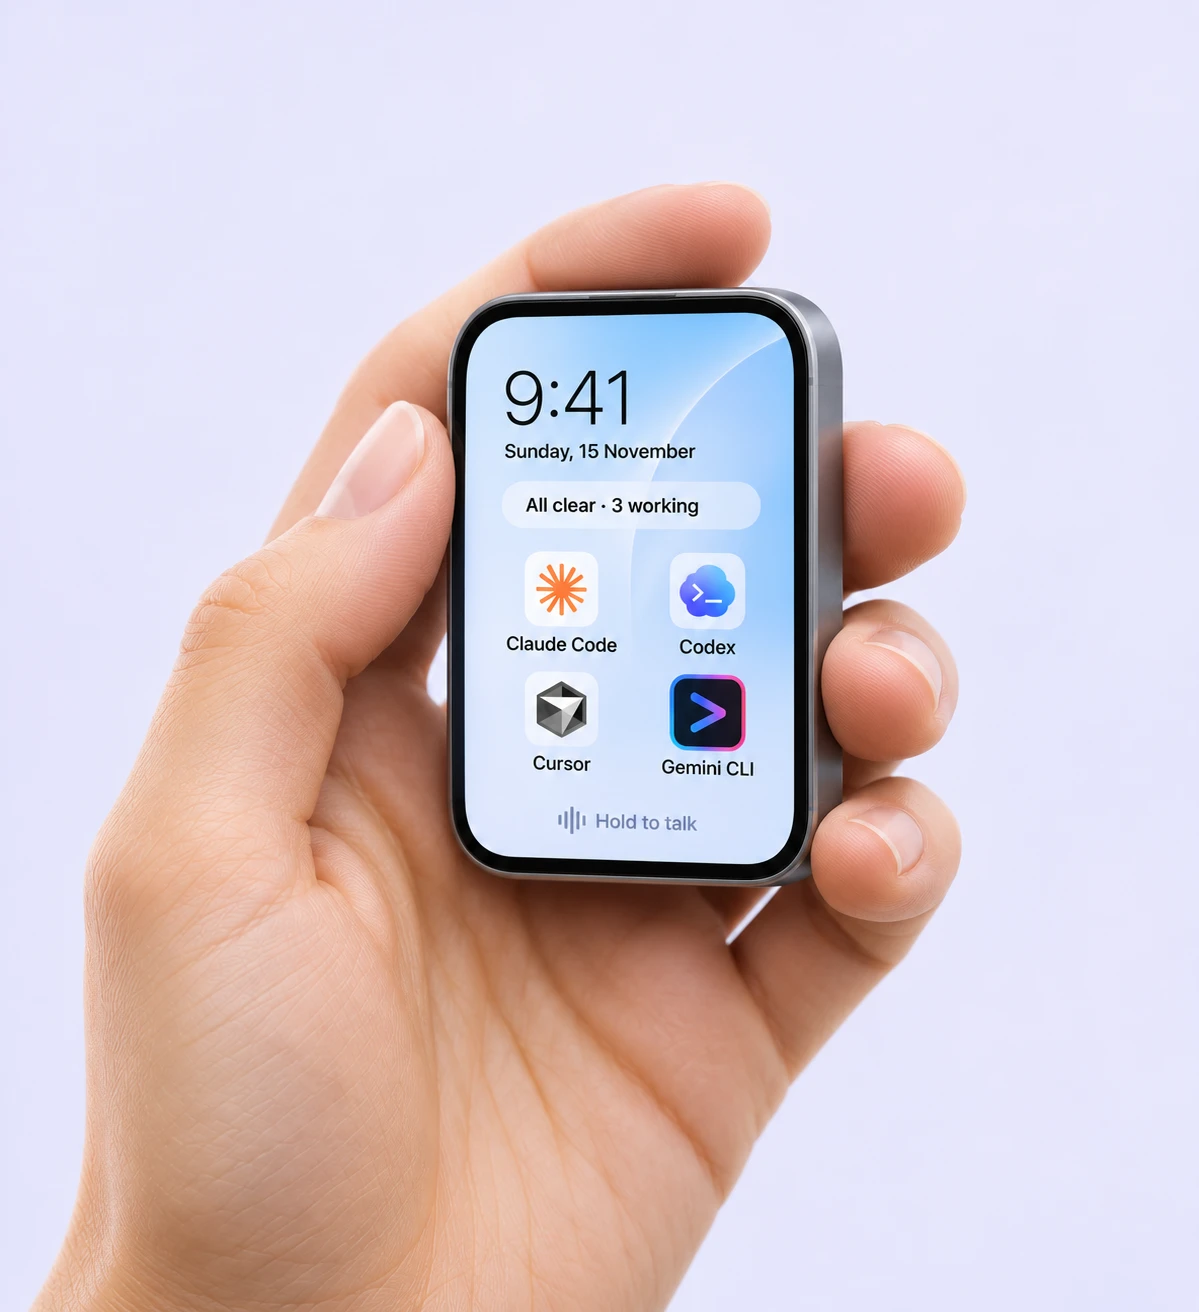
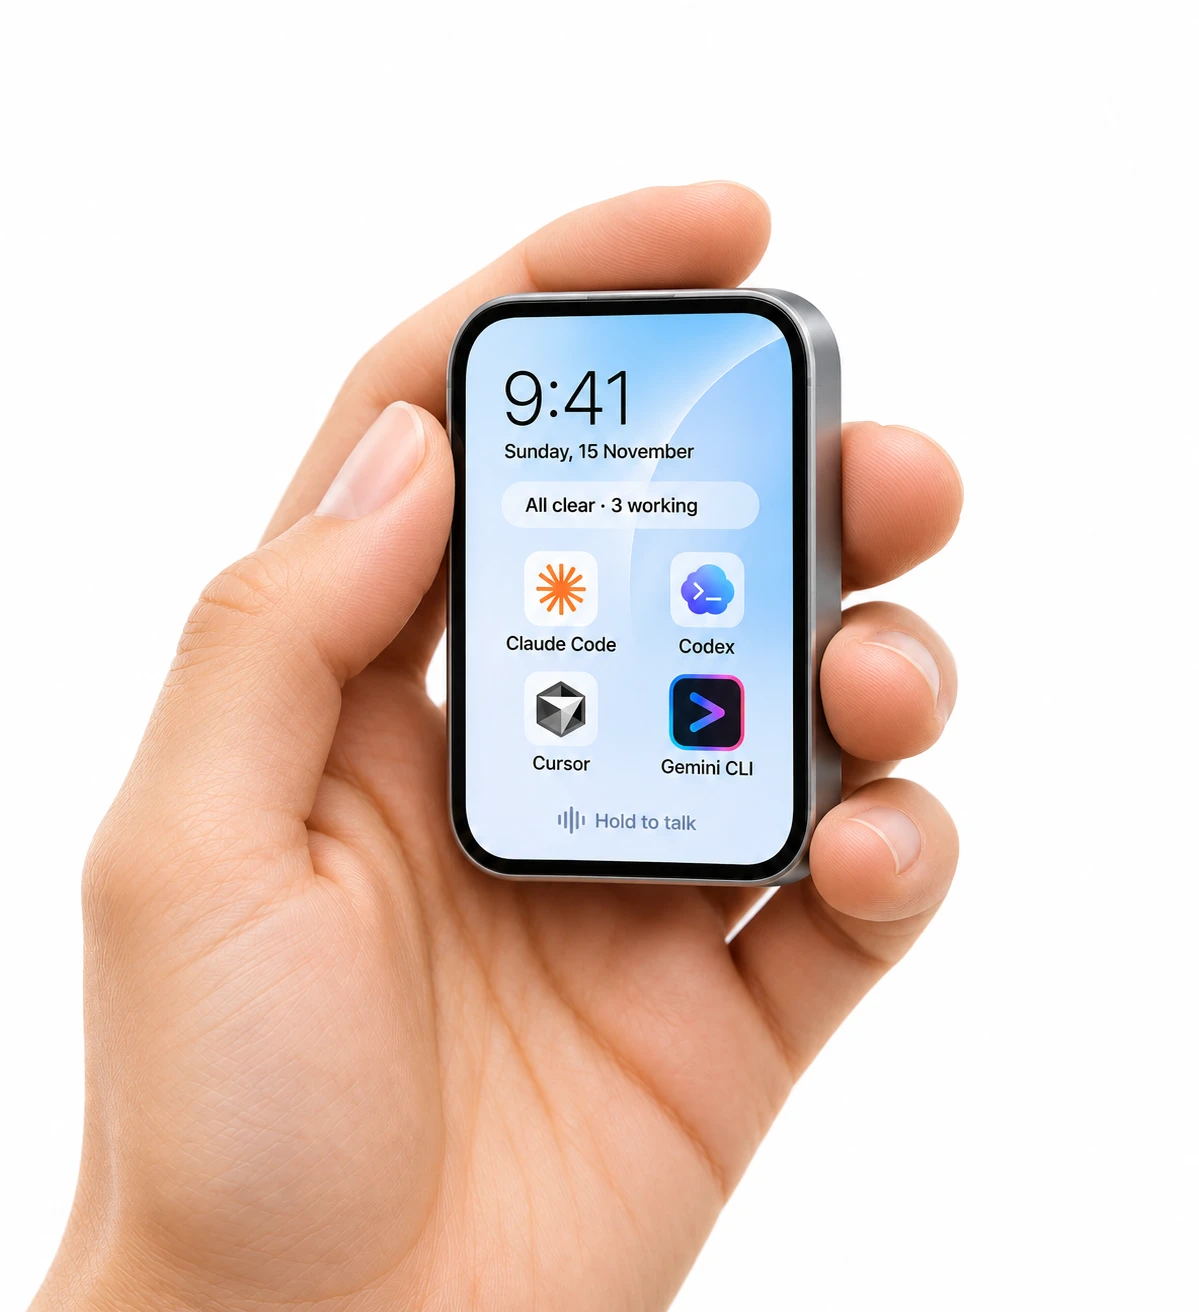
Pocket it and Snap it on as two white sections
- New white-background hand and wrist photos (Cursor spelled correctly)
- Hand photo melts away at the bottom with an eased fade
- Wrist photo runs edge to edge with short eased top and bottom fades

diff --git a/app/globals.css b/app/globals.css
@@ -94,9 +94,10 @@ a { color: inherit; text-decoration: none; }
 .look-caps > div.on { opacity: 1; transform: none; }
 .look-caps h3 { margin: 0; font-size: clamp(28px, 3.4vw, 48px); line-height: 1.08; font-weight: 500; letter-spacing: -0.035em; text-wrap: balance; }
 
-.pair { max-width: 1400px; margin: clamp(48px, 6vw, 80px) auto 0; display: grid; grid-template-columns: 2fr 3fr; gap: 20px; }
-.pair img { width: 100%; height: clamp(420px, 46vw, 680px); object-fit: cover; border-radius: clamp(20px, 2.6vw, 36px); }
-.pair img:first-child { object-position: 50% 30%; }
+.bleed { overflow: hidden; }
+.shot { width: 100%; height: auto; margin: clamp(24px, 3vw, 48px) auto 0; filter: brightness(1.01); }
+.shot-hand { max-width: 640px; -webkit-mask-image: linear-gradient(to bottom, rgba(0,0,0,1) 56%, rgba(0,0,0,0.991) 60.4%, rgba(0,0,0,0.942) 64.8%, rgba(0,0,0,0.837) 69.2%, rgba(0,0,0,0.683) 73.6%, rgba(0,0,0,0.5) 78%, rgba(0,0,0,0.317) 82.4%, rgba(0,0,0,0.163) 86.8%, rgba(0,0,0,0.058) 91.2%, rgba(0,0,0,0.009) 95.6%, rgba(0,0,0,0) 100%); mask-image: linear-gradient(to bottom, rgba(0,0,0,1) 56%, rgba(0,0,0,0.991) 60.4%, rgba(0,0,0,0.942) 64.8%, rgba(0,0,0,0.837) 69.2%, rgba(0,0,0,0.683) 73.6%, rgba(0,0,0,0.5) 78%, rgba(0,0,0,0.317) 82.4%, rgba(0,0,0,0.163) 86.8%, rgba(0,0,0,0.058) 91.2%, rgba(0,0,0,0.009) 95.6%, rgba(0,0,0,0) 100%); }
+.shot-wrist { width: 100vw; max-width: none; margin-left: calc(50% - 50vw); -webkit-mask-image: linear-gradient(to bottom, rgba(0,0,0,0) 0%, rgba(0,0,0,0.009) 1.4%, rgba(0,0,0,0.058) 2.8%, rgba(0,0,0,0.163) 4.2%, rgba(0,0,0,0.317) 5.6%, rgba(0,0,0,0.5) 7%, rgba(0,0,0,0.683) 8.4%, rgba(0,0,0,0.837) 9.8%, rgba(0,0,0,0.942) 11.2%, rgba(0,0,0,0.991) 12.6%, rgba(0,0,0,1) 14%, rgba(0,0,0,1) 90%, rgba(0,0,0,0.991) 91%, rgba(0,0,0,0.942) 92%, rgba(0,0,0,0.837) 93%, rgba(0,0,0,0.683) 94%, rgba(0,0,0,0.5) 95%, rgba(0,0,0,0.317) 96%, rgba(0,0,0,0.163) 97%, rgba(0,0,0,0.058) 98%, rgba(0,0,0,0.009) 99%, rgba(0,0,0,0) 100%); mask-image: linear-gradient(to bottom, rgba(0,0,0,0) 0%, rgba(0,0,0,0.009) 1.4%, rgba(0,0,0,0.058) 2.8%, rgba(0,0,0,0.163) 4.2%, rgba(0,0,0,0.317) 5.6%, rgba(0,0,0,0.5) 7%, rgba(0,0,0,0.683) 8.4%, rgba(0,0,0,0.837) 9.8%, rgba(0,0,0,0.942) 11.2%, rgba(0,0,0,0.991) 12.6%, rgba(0,0,0,1) 14%, rgba(0,0,0,1) 90%, rgba(0,0,0,0.991) 91%, rgba(0,0,0,0.942) 92%, rgba(0,0,0,0.837) 93%, rgba(0,0,0,0.683) 94%, rgba(0,0,0,0.5) 95%, rgba(0,0,0,0.317) 96%, rgba(0,0,0,0.163) 97%, rgba(0,0,0,0.058) 98%, rgba(0,0,0,0.009) 99%, rgba(0,0,0,0) 100%); }
 
 .faq { margin-top: clamp(40px, 5vw, 64px); border-bottom: 1px solid var(--line); }
 .faq details { border-top: 1px solid var(--line); }
@@ -214,8 +215,6 @@ a { color: inherit; text-decoration: none; }
   .look { height: 540vh; }
 }
 @media (max-width: 760px) {
-  .pair { grid-template-columns: 1fr; }
-  .pair img { height: auto; }
   .btn-nav { font-size: 14px; padding: 10px 18px; }
 }
 @media (prefers-reduced-motion: reduce) {

diff --git a/app/page.js b/app/page.js
@@ -26,14 +26,14 @@ export default function Home() {
           <Showcase />
         </section>
 
-        <section id="wear" className="sec">
-          <div className="wrap center">
-            <h2 className="h2">Pocket it. Or snap it on.</h2>
-          </div>
-          <div className="pair">
-            <img className="rv" src="/img/hand.webp" width={1199} height={1312} loading="lazy" alt="Abble 1 held between thumb and fingers" />
-            <img className="rv" src="/img/wrist.webp" width={1536} height={1024} loading="lazy" alt="Abble 1 worn on a black woven strap" />
-          </div>
+        <section id="wear" className="sec center">
+          <h2 className="h2">Pocket it.</h2>
+          <img className="shot shot-hand rv" src="/img/hand.webp" width={1199} height={1312} loading="lazy" alt="Abble 1 held between thumb and fingers" />
+        </section>
+
+        <section className="sec center bleed">
+          <h2 className="h2">Or snap it on.</h2>
+          <img className="shot shot-wrist rv" src="/img/wrist.webp" width={1535} height={1024} loading="lazy" alt="Abble 1 worn on a black woven strap" />
         </section>
 
         <section id="faq" className="sec">
